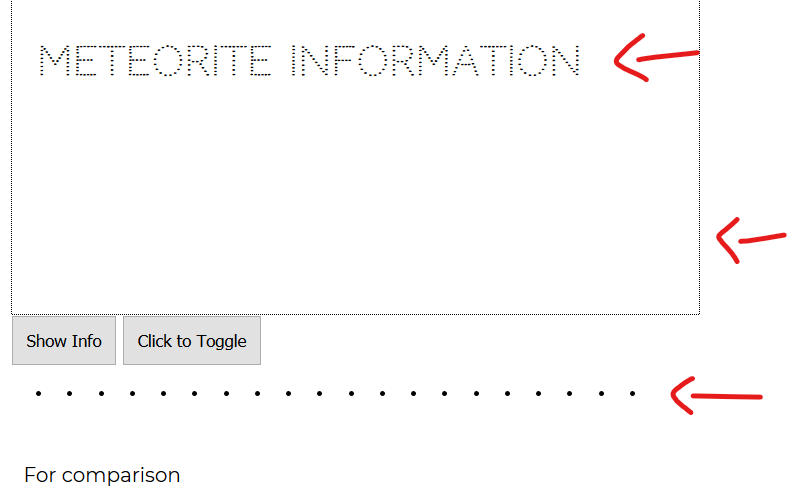
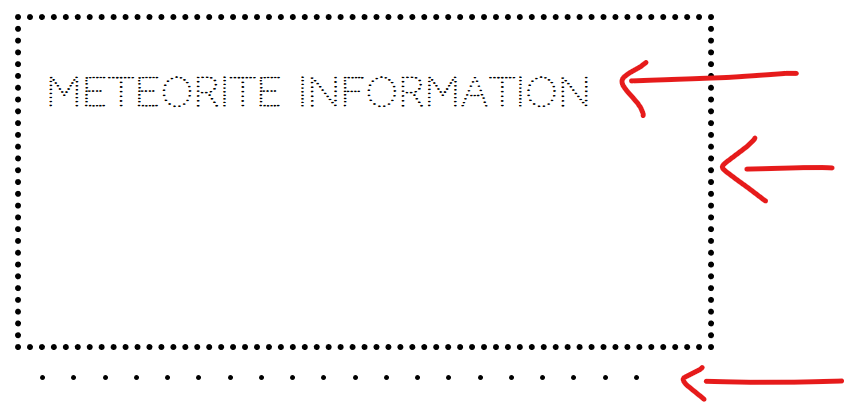
dotted border tests
updated screenshot
added dotted border, not ideal

diff --git a/HW-9/index.html b/HW-9/index.html
@@ -18,21 +18,24 @@
 </head>
 <body>
 
+    <div class="border">    </div>
 
-    <div id="show_information"><h1>Meteorite Information</h1><br>
-    <div id="name"></div>
-    <div id="mass"></div>
-    <div id="year"></div>
-    <div id="geolocation"></div>
+        <div id="show_information">
+          <h1>Meteorite Information</h1><br>
+            <div id="name"></div>
+            <div id="mass"></div>
+            <div id="year"></div>
+            <div id="geolocation"></div>
+            <br>
+        </div>
+        <div class="border">       </div>
+
+        <button id="btn_info"> Show Info</button>
+        <button id="button2"> Click to Toggle</button>
+
     <br>
-    </div>
-    <button id="btn_info"> Show Info</button>
-    <button id="button2"> Click to Toggle</button>
 
-    <br>
 
-<!-- Source from W3Schoolshttps://www.w3schools.com/graphics/svg_circle.asp-->
-    <div id="border"></div>
 
     <br>
     <div >

diff --git a/HW-9/test.js b/HW-9/test.js
@@ -8,8 +8,8 @@ $(document).ready(function(){
 
 var circle = "<svg height='5' width='5'><circle cx='2' cy='2' r='2' fill='black'/></svg>"
 
-  for (i = 0; i < 20; i ++){
-    $("#border").append(circle);
+  for (i = 0; i < 20 ; i ++){
+    $(".border").append(circle);
 
   }
 

diff --git a/HW-9/css/style.css b/HW-9/css/style.css
@@ -13,6 +13,7 @@ body{
 #show_information {
   line-height: 2em;
   border: 1px dotted black;
+  border-width: thick;
   width: 80%;
 }
 
